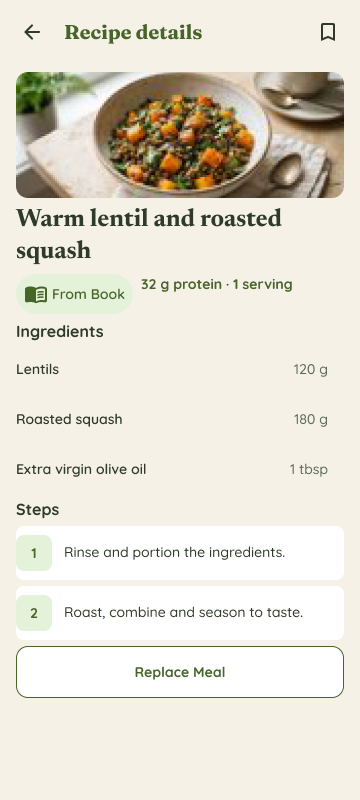
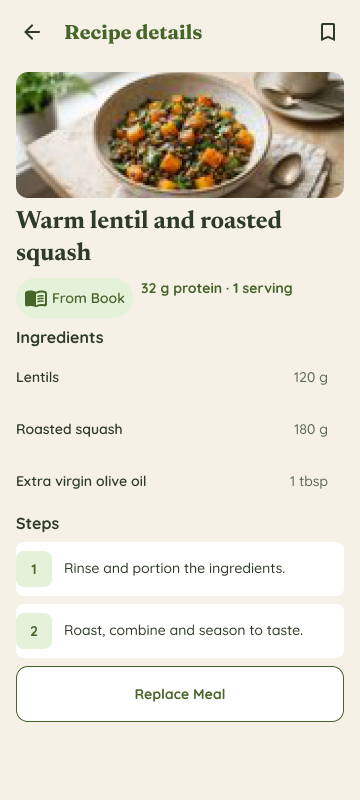
fix: refine member 3 layout balance

diff --git a/docs/member-3-ui-worklog.md b/docs/member-3-ui-worklog.md
@@ -224,3 +224,23 @@ High-resolution screenshots of Flow 1, Flow 2, Flow 3, Required States and Respo
 All ten deliverable PNGs were re-exported from the latest Figma masters after the polish pass. Verification remains `10/10` valid PNG signatures, `10/10` at `360x800`, `0` empty files and `10/10` unique SHA-256 hashes.
 
 Final regression after the pixel-polish pass also synchronized 52 remaining 12–13sp custom labels in legacy state/prototype clones to 14sp. The complete regression set now reports `0` non-icon text below 14sp, `0` text overflow findings and `0` audited interactive targets below 48dp across masters, responsive copies, states and prototype. Prototype integrity remains unchanged with `3` Flow Starting Points, `42` meaningful interaction sources, the `1000ms` Loading-to-result timeout and the real Edit Ingredient overlay interaction all verified.
+
+
+## 17. Deep layout integrity and visual-balance audit
+
+A dedicated post-polish audit reviewed geometry, visual balance, distortion risk, whitespace, alignment and Figma-canvas organization across the 10 Final UI masters, 10 responsive 412dp copies, 9 required states and all prototype clones.
+
+Corrections made:
+- Re-centered the S04 seven-day selector. At 360dp the 336dp selector is now symmetrically centered with 12dp screen-side margins while preserving seven 48x48dp targets; at 412dp it uses a 360dp centered selector with integer 4dp spacing and no fractional target positions.
+- Restored S05/S06/S09 secondary CTAs from manually resized 52dp back to the 56dp `Longvita/Button` component-master height in master, 412dp QA and prototype copies.
+- Normalized S05, S06 and S08 Content Auto Layout spacing to the 8dp design token, including related S06 states/prototype clones, improving vertical rhythm without creating overflow.
+- Removed the redundant background `Keep Original` button from S06 Update Error so the dialog contains the only visible recovery action with that label.
+
+Verified intentional layout decisions:
+- All standard content columns retain 16dp left/right margins; full-width cards and CTAs align to the same content column.
+- Bottom navigation bars remain anchored exactly to the screen bottom and screen-width.
+- Larger blank areas on short-content screens (especially S08/S10 and taller 412dp QA screens) remain intentionally top-aligned instead of stretching card heights or inserting decorative filler. This preserves hierarchy and supports future variable-length content.
+- No component instance is scaled or rotated. Food imagery uses `FILL`, not `STRETCH`, so cropping can occur but aspect ratio is not geometrically distorted.
+- Figma canvas organization remains aligned: Flow sections use consistent row baselines and 30dp inter-screen gaps; required states use a 3x3 grid with equal 30dp column gaps and 70dp row gaps; 412dp QA uses two aligned rows with equal 33dp column gaps.
+
+Final regression after these changes: 0 geometry issues, 0 text overflow findings, 0 sub-14sp custom text in audited deliverables/prototype, 0 scaled/rotated instances, all audited secondary CTAs match the 56dp component master, all S04 day targets use integer positions, and the three prototype Flow Starting Points plus Loading timeout/Edit Overlay remain intact.
